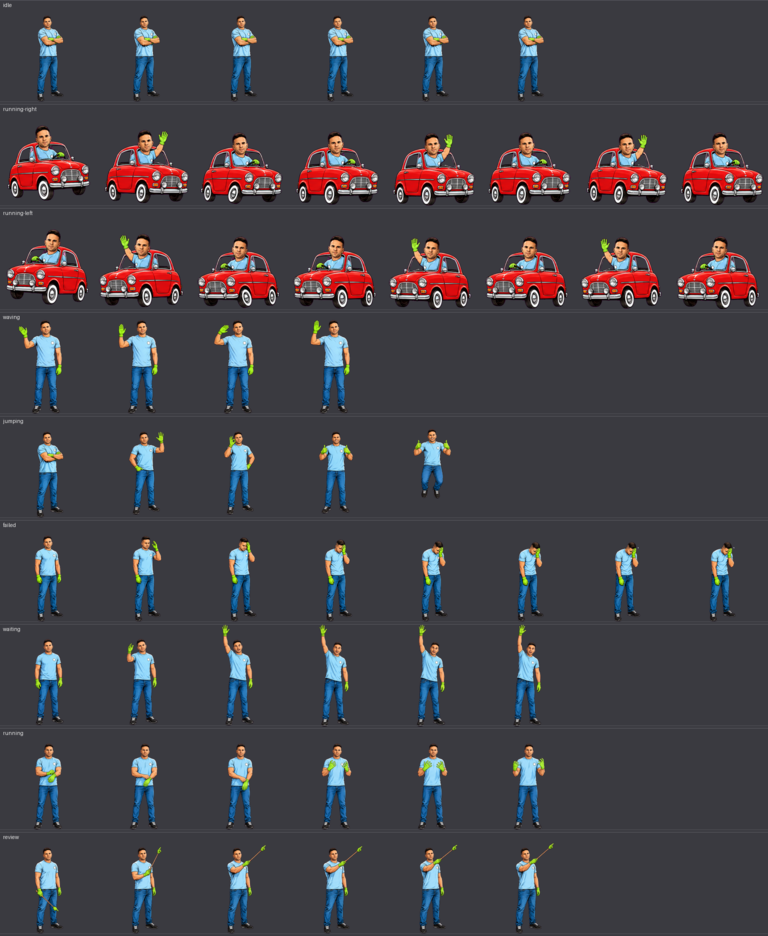
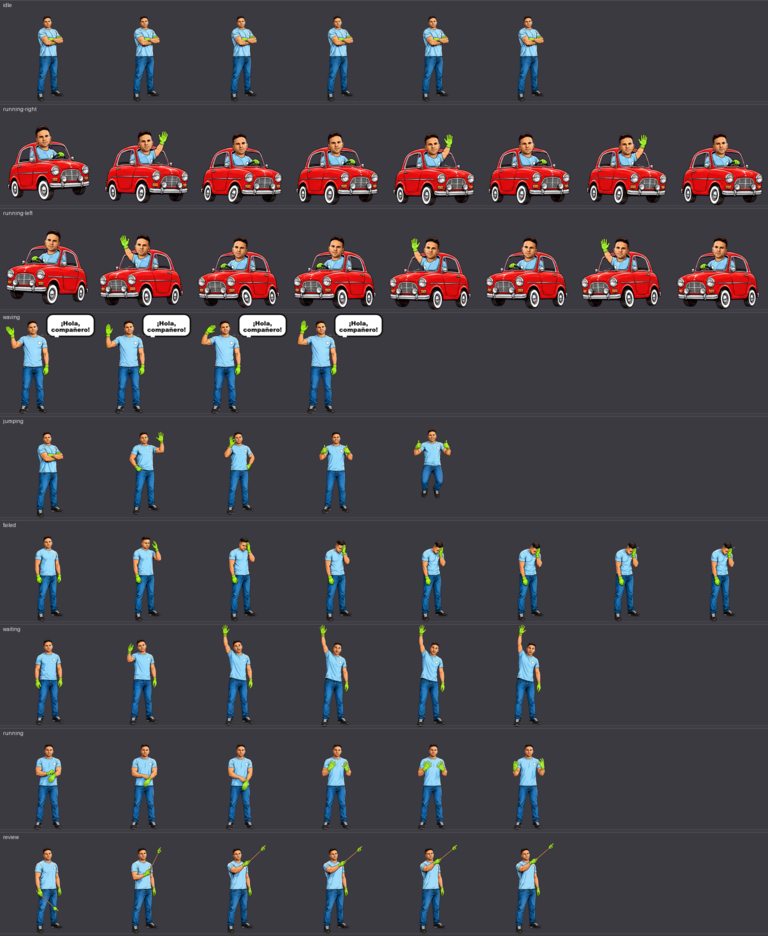
feat: saludo «¡Hola, compañero!» con bocadillo
tools/bocadillo.py dibuja un globo de cómic con texto (a 3x y
reducido). Ángel y el guante lo muestran al saludar (fila waving),
desplazados a la izquierda para dejarle sitio.

Changed region(s): [[0.0, 0.3098, 0.5, 0.4338]]

diff --git a/tools/bocadillo.py b/tools/bocadillo.py
@@ -1,0 +1,76 @@
+"""Bocadillo de cómic con texto para las celdas de las mascotas (p. ej. «¡Hola, compañero!»).
+
+Se dibuja a 3x y se reduce, para que el borde y el texto salgan suaves a 192x208.
+"""
+from __future__ import annotations
+
+from dataclasses import dataclass
+from pathlib import Path
+
+from PIL import Image, ImageDraw, ImageFont
+
+SUPERSAMPLE = 3
+WHITE = (255, 255, 255, 255)
+BLACK = (17, 17, 17, 255)
+FONT_CANDIDATES = (
+    "/System/Library/Fonts/Supplemental/Arial Black.ttf",          # macOS
+    "/System/Library/Fonts/Supplemental/Arial Bold.ttf",
+    "C:/Windows/Fonts/ariblk.ttf",                                  # Windows
+    "/usr/share/fonts/truetype/dejavu/DejaVuSans-Bold.ttf",         # Linux
+)
+
+
+@dataclass(frozen=True)
+class Bubble:
+    lines: tuple[str, ...]              # texto, una entrada por línea
+    box: tuple[int, int, int, int]      # x0, y0, x1, y1 del globo en la celda
+    tail: tuple[int, int]               # punta de la cola (hacia la boca o la cabeza)
+    max_font: int = 15                  # tamaño máximo; se reduce si no cabe
+
+
+def load_font(size: int) -> ImageFont.FreeTypeFont:
+    for path in FONT_CANDIDATES:
+        if Path(path).is_file():
+            return ImageFont.truetype(path, size)
+    raise FileNotFoundError("No hay fuente para el bocadillo: instala Arial Black o DejaVu Sans")
+
+
+def _fit_font(draw: ImageDraw.ImageDraw, bubble: Bubble) -> tuple[ImageFont.FreeTypeFont, int]:
+    """Mayor fuente (a escala 3x) cuyas líneas caben dentro del globo con margen."""
+    x0, y0, x1, y1 = bubble.box
+    inner_w = (x1 - x0 - 14) * SUPERSAMPLE
+    inner_h = (y1 - y0 - 10) * SUPERSAMPLE
+    for size in range(bubble.max_font, 7, -1):
+        font = load_font(size * SUPERSAMPLE)
+        widths = [draw.textlength(line, font=font) for line in bubble.lines]
+        line_h = int(size * SUPERSAMPLE * 1.08)
+        if max(widths) <= inner_w and line_h * len(bubble.lines) <= inner_h:
+            return font, line_h
+    font = load_font(8 * SUPERSAMPLE)
+    return font, int(8 * SUPERSAMPLE * 1.08)
+
+
+def draw_bubble(cell: Image.Image, bubble: Bubble) -> Image.Image:
+    """Devuelve una copia de la celda con el bocadillo encima."""
+    s = SUPERSAMPLE
+    layer = Image.new("RGBA", (cell.width * s, cell.height * s), (0, 0, 0, 0))
+    draw = ImageDraw.Draw(layer)
+    x0, y0, x1, y1 = (v * s for v in bubble.box)
+    tx, ty = (v * s for v in bubble.tail)
+    base_x = x0 + (x1 - x0) // 5
+    stroke = 3 * s
+    draw.polygon([(base_x - 5 * s, y1 - s), (base_x + 9 * s, y1 - s), (tx, ty)],
+                 fill=WHITE, outline=BLACK, width=stroke)
+    draw.rounded_rectangle((x0, y0, x1, y1), radius=14 * s, fill=WHITE, outline=BLACK, width=stroke)
+    draw.polygon([(base_x - 2 * s, y1 - 2 * s), (base_x + 6 * s, y1 - 2 * s), (tx, ty)], fill=WHITE)
+    draw.line([(base_x - 2 * s, y1 - stroke // 2), (base_x + 6 * s, y1 - stroke // 2)], fill=WHITE, width=stroke)
+    font, line_h = _fit_font(draw, bubble)
+    total_h = line_h * len(bubble.lines)
+    cy = (y0 + y1) // 2 - total_h // 2
+    for i, line in enumerate(bubble.lines):
+        width = draw.textlength(line, font=font)
+        draw.text(((x0 + x1) / 2 - width / 2, cy + i * line_h), line, font=font, fill=BLACK)
+    small = layer.resize(cell.size, Image.Resampling.LANCZOS)
+    out = cell.copy()
+    out.alpha_composite(small)
+    return out

diff --git a/tools/procesar_tiras.py b/tools/procesar_tiras.py
@@ -19,6 +19,7 @@ from dataclasses import dataclass
 from pathlib import Path
 
 import numpy as np
+from bocadillo import Bubble, draw_bubble
 from PIL import Image, ImageDraw
 from scipy import ndimage
 
@@ -62,6 +63,12 @@ ROW_SOURCE: dict[str, str] = {
 
 # Filas que no son una persona de pie (el coche): se escalan para caber en la celda.
 ROW_FIT: dict[str, tuple[int, int]] = {"running-right": (CELL_W - 8, 150)}
+
+# Saludo con bocadillo: el personaje se corre a la izquierda y el globo va junto a su cabeza.
+ROW_DX: dict[str, int] = {"waving": -26}
+BUBBLES: dict[str, Bubble] = {
+    "waving": Bubble(lines=("¡Hola,", "compañero!"), box=(92, 3, 190, 50), tail=(82, 46)),
+}
 
 # Reposo: (pose de la tira, desplazamiento x en px, espejo). Petdex repite esta fila
 # en bucle cada ~1,1 s, así que el movimiento es un balanceo suave de pocos píxeles
@@ -249,9 +256,12 @@ def build(tiras: Path, out: Path, measure: bool) -> dict:
                 print(state, "escala=%.4f" % scale, "alturas=", [p.height for p in poses],
                       "anchos=", [p.rgba.width for p in poses])
             row_cells, report[state] = [], []
-            plan = IDLE_PATH if state == "idle" else tuple((i, 0, False) for i in range(frames))
+            base_dx = ROW_DX.get(state, 0)
+            plan = IDLE_PATH if state == "idle" else tuple((i, base_dx, False) for i in range(frames))
             for i, (src, dx, flip) in enumerate(plan):
                 cell, bbox, clipped = place(poses[src], scale, ground, dx, flip)
+                if state in BUBBLES:
+                    cell = clear_hidden_rgb(draw_bubble(cell, BUBBLES[state]))
                 row_cells.append(cell)
                 report[state].append({"frame": i, "bbox": bbox, "recortado": clipped})
         cells[state] = row_cells

diff --git a/tools/generar_atlas.py b/tools/generar_atlas.py
@@ -19,6 +19,7 @@ import math
 from dataclasses import dataclass
 from pathlib import Path
 
+from bocadillo import Bubble, draw_bubble
 from PIL import Image, ImageDraw, ImageEnhance
 
 CELL_W, CELL_H = 192, 208
@@ -94,8 +95,12 @@ def poses_run(n: int, direction: int) -> list[Pose]:
     return poses
 
 
+WAVING_BUBBLE = Bubble(lines=("¡Hola,", "compañero!"), box=(92, 3, 190, 48), tail=(88, 60))
+
+
 def poses_waving(_: int) -> list[Pose]:
-    return [Pose(angle=a, dy=d) for a, d in ((0, 0), (14, -4), (0, 0), (-14, -4))]
+    """Se mece saludando, corrido a la izquierda para dejar sitio al bocadillo."""
+    return [Pose(angle=a, dy=d, dx=-16) for a, d in ((0, 0), (14, -4), (0, 0), (-14, -4))]
 
 
 def poses_jumping(_: int) -> list[Pose]:
@@ -242,6 +247,8 @@ def build(logo: Path, out_dir: Path) -> dict:
         report[state] = []
         for col, pose in enumerate(poses):
             cell, bbox, clipped = render_cell(sprite, pose)
+            if state == "waving":
+                cell = clear_hidden_rgb(draw_bubble(cell, WAVING_BUBBLE))
             cell.save(frame_dir / f"{col:02d}.png")
             atlas.alpha_composite(cell, (col * CELL_W, row * CELL_H))
             report[state].append({"frame": col, "bbox": bbox, "recortado": clipped})

diff --git a/README.md b/README.md
@@ -23,6 +23,7 @@
 | | **Ángel Gaitán** | **Guante Verde** |
 | --- | :---: | :---: |
 | Reposo | ![Ángel con los brazos cruzados, respira y se balancea](preview/angel-gaitan/idle.gif) | ![El guante se mece](preview/guante-verde/idle.gif) |
+| Saludo | ![Ángel saluda: ¡Hola, compañero!](preview/angel-gaitan/waving.gif) | ![El guante saluda: ¡Hola, compañero!](preview/guante-verde/waving.gif) |
 | La arrastras | ![Ángel conduce su coche rojo](preview/angel-gaitan/running-right.gif) | ![El guante da saltitos](preview/guante-verde/running-right.gif) |
 | Todo OK | ![Ángel hace la seña de OK y levanta los pulgares](preview/angel-gaitan/jumping.gif) | ![El guante salta](preview/guante-verde/jumping.gif) |
 | Revisando | ![Ángel señala con su puntero de guante verde](preview/angel-gaitan/review.gif) | ![El guante se inclina](preview/guante-verde/review.gif) |
@@ -77,7 +78,7 @@ foreach ($dest in "$env:USERPROFILE\.petdex\pets", "$env:USERPROFILE\.codex\pets
 | --- | --- | --- | --- |
 | `idle` | Sin actividad | Brazos cruzados: respira, parpadea y se balancea un poco | Se mece suavemente |
 | `running-right` / `running-left` | La arrastras | Conduce su coche rojo clásico y saluda por la ventanilla | Da saltitos inclinado |
-| `waving` | Saludo o aviso | Saluda con el guante | Se mece |
+| `waving` | Saludo o aviso | Saluda con el guante: «¡Hola, compañero!» | Se mece: «¡Hola, compañero!» |
 | `jumping` | Tarea terminada bien | «Todo OK»: seña de OK con guiño, doble pulgar arriba y saltito | Salta |
 | `failed` | Algo falló | Se lleva la mano a la cara | Gira a pulgar abajo y pierde color |
 | `waiting` | El agente espera tu permiso | Levanta la mano bien alta: «¡aquí!» | Da toquecitos hacia delante |
